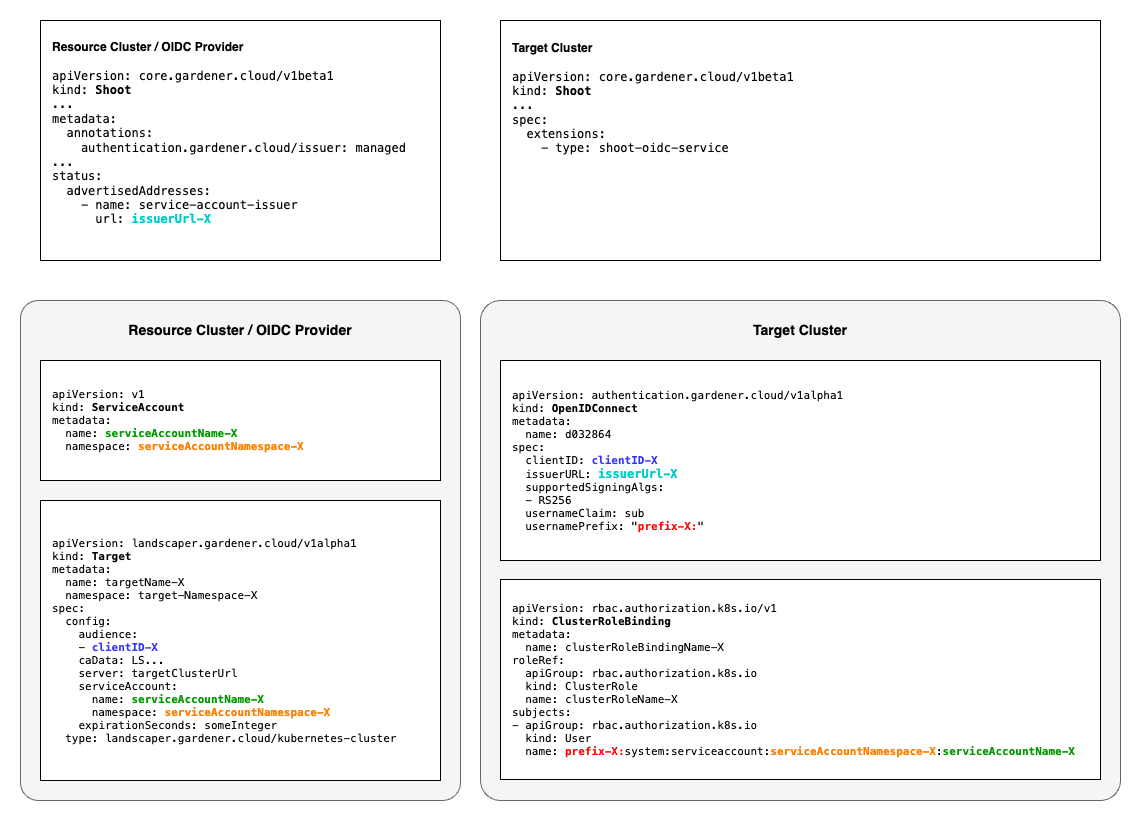
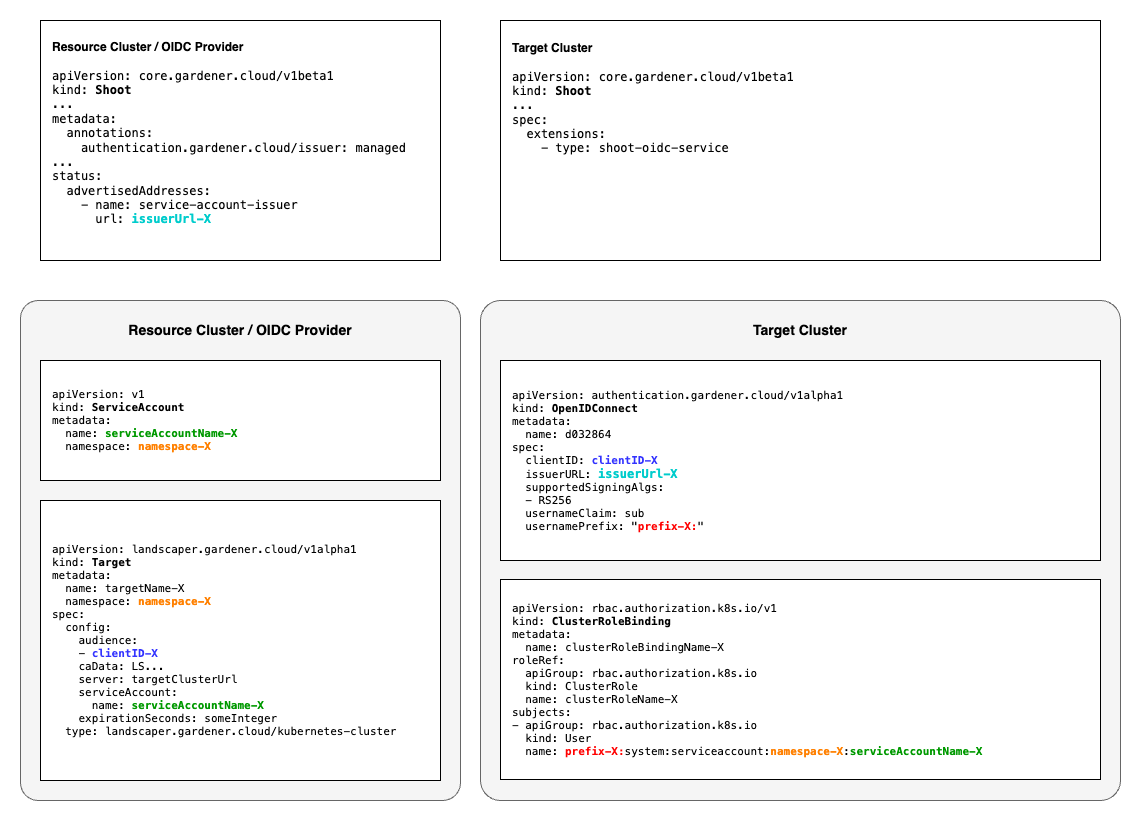
OIDC Targets: Local reference to ServiceAccount (#1252)
* Local ref to service account (run-int-tests)

* Docs

* Unit test (run-int-tests)

Changed region(s): [[0.0307, 0.6341, 0.3374, 0.9058], [0.6748, 0.9058, 0.9509, 0.936], [0.1227, 0.5133, 0.2761, 0.5435]]

diff --git a/apis/core/v1alpha1/targettypes/kubernetes_cluster_test.go b/apis/core/v1alpha1/targettypes/kubernetes_cluster_test.go
@@ -4,13 +4,12 @@ import (
 	"encoding/json"
 	"testing"
 
-	"k8s.io/utils/ptr"
-
-	"github.com/gardener/landscaper/apis/core/v1alpha1"
-	"github.com/gardener/landscaper/apis/core/v1alpha1/targettypes"
-
 	. "github.com/onsi/ginkgo/v2"
 	. "github.com/onsi/gomega"
+	v1 "k8s.io/api/core/v1"
+	"k8s.io/utils/ptr"
+
+	"github.com/gardener/landscaper/apis/core/v1alpha1/targettypes"
 )
 
 func TestConfig(t *testing.T) {
@@ -47,20 +46,19 @@ var _ = Describe("Kubernetes Cluster Target Types", func() {
 			OIDCConfig: &targettypes.OIDCConfig{
 				Server: "test-server",
 				CAData: []byte("test-cert"),
-				ServiceAccount: v1alpha1.ObjectReference{
-					Name:      "test-account",
-					Namespace: "test-namespace",
+				ServiceAccount: v1.LocalObjectReference{
+					Name: "test-account",
 				},
 				Audience: []string{"test-audience"},
 			},
 		}
 		targetConfigJSON, err := json.Marshal(targetConfig)
 		Expect(err).NotTo(HaveOccurred())
-		Expect(targetConfigJSON).To(MatchJSON(`{"kubeconfig":null,"oidcConfig":{"server":"test-server","caData":"dGVzdC1jZXJ0","serviceAccount":{"name":"test-account","namespace":"test-namespace"},"audience":["test-audience"]}}`))
+		Expect(targetConfigJSON).To(MatchJSON(`{"kubeconfig":null,"oidcConfig":{"server":"test-server","caData":"dGVzdC1jZXJ0","serviceAccount":{"name":"test-account"},"audience":["test-audience"]}}`))
 	})
 
 	It("should unmarshal an oidc config", func() {
-		configJSON := []byte(`{"kubeconfig":{},"oidcConfig":{"server":"test-server","caData":"dGVzdC1jZXJ0","serviceAccount":{"name":"test-account","namespace":"test-namespace"},"audience":["test-audience"]}}`)
+		configJSON := []byte(`{"kubeconfig":{},"oidcConfig":{"server":"test-server","caData":"dGVzdC1jZXJ0","serviceAccount":{"name":"test-account"},"audience":["test-audience"]}}`)
 		config := &targettypes.KubernetesClusterTargetConfig{}
 		Expect(json.Unmarshal(configJSON, config)).To(Succeed())
 		Expect(config).To(Equal(&targettypes.KubernetesClusterTargetConfig{
@@ -70,9 +68,8 @@ var _ = Describe("Kubernetes Cluster Target Types", func() {
 			OIDCConfig: &targettypes.OIDCConfig{
 				Server: "test-server",
 				CAData: []byte("test-cert"),
-				ServiceAccount: v1alpha1.ObjectReference{
-					Name:      "test-account",
-					Namespace: "test-namespace",
+				ServiceAccount: v1.LocalObjectReference{
+					Name: "test-account",
 				},
 				Audience: []string{"test-audience"},
 			},

diff --git a/apis/core/v1alpha1/targettypes/kubernetes_cluster.go b/apis/core/v1alpha1/targettypes/kubernetes_cluster.go
@@ -7,6 +7,7 @@ package targettypes
 import (
 	"encoding/json"
 
+	v1 "k8s.io/api/core/v1"
 	"k8s.io/utils/ptr"
 
 	"github.com/gardener/landscaper/apis/core"
@@ -80,9 +81,9 @@ func (v ValueRef) OpenAPISchemaType() []string {
 func (v ValueRef) OpenAPISchemaFormat() string { return "" }
 
 type OIDCConfig struct {
-	Server            string                   `json:"server,omitempty"`
-	CAData            []byte                   `json:"caData,omitempty"`
-	ServiceAccount    v1alpha1.ObjectReference `json:"serviceAccount,omitempty"`
-	Audience          []string                 `json:"audience,omitempty"`
-	ExpirationSeconds *int64                   `json:"expirationSeconds,omitempty"`
+	Server            string                  `json:"server,omitempty"`
+	CAData            []byte                  `json:"caData,omitempty"`
+	ServiceAccount    v1.LocalObjectReference `json:"serviceAccount,omitempty"`
+	Audience          []string                `json:"audience,omitempty"`
+	ExpirationSeconds *int64                  `json:"expirationSeconds,omitempty"`
 }

diff --git a/test/integration/targets/oidc_targets.go b/test/integration/targets/oidc_targets.go
@@ -92,9 +92,8 @@ func OIDCTargetTests(ctx context.Context, f *framework.Framework) {
 				OIDCConfig: &targettypes.OIDCConfig{
 					Server: f.RestConfig.Host,
 					CAData: f.RestConfig.CAData,
-					ServiceAccount: lsv1alpha1.ObjectReference{
-						Name:      saName,
-						Namespace: saNamespace,
+					ServiceAccount: v1.LocalObjectReference{
+						Name: saName,
 					},
 					Audience:          []string{audience},
 					ExpirationSeconds: ptr.To[int64](86400),

diff --git a/pkg/deployer/lib/utils.go b/pkg/deployer/lib/utils.go
@@ -70,7 +70,7 @@ func GetRestConfigAndClientAndClientSet(ctx context.Context, resolvedTarget *lsv
 	} else if targetConfig.OIDCConfig != nil {
 		serviceAccount := &corev1.ServiceAccount{
 			ObjectMeta: metav1.ObjectMeta{
-				Namespace: targetConfig.OIDCConfig.ServiceAccount.Namespace,
+				Namespace: resolvedTarget.Namespace,
 				Name:      targetConfig.OIDCConfig.ServiceAccount.Name,
 			},
 		}

diff --git a/docs/usage/Targets.md b/docs/usage/Targets.md
@@ -217,14 +217,15 @@ the status of its shoot yaml with the following command:
   kubectl -n my-project get shoot resource-x -o jsonpath='{.status.advertisedAddresses[?(@.name=="service-account-issuer")].url}'
   ```
 
-On the resource cluster you define a Service Account like the following:
+On the resource cluster you define a Service Account as below. Note that this ServiceAccount must have the same namespace
+as the Target that we are going to create.
 
 ```yaml
 apiVersion: v1
 kind: ServiceAccount
 metadata:
   name: <someName> # e.g. test-service-account
-  namespace: <someNamespace> # e.g. ls-user
+  namespace: <someNamespace> # namespace of the Target
 ```
 
 On the target cluster (not the resource cluster!) you define the cluster role binding (and cluster roles) for this
@@ -266,8 +267,7 @@ spec:
       caData: LS... # ca data of the target cluster
       server: <ApiServerUrl of the target cluster> # https://api.<clusterName>...
       serviceAccount: 
-        name: <name of Service Account>
-        namespace: <namespace of Service Account> # might be different from the Target namespace
+        name: <name of Service Account in the same namespace>
       expirationSeconds: <some integer> # optional, defaults to 86400 = 60 * 60 * 24
   type: landscaper.gardener.cloud/kubernetes-cluster
 ```
